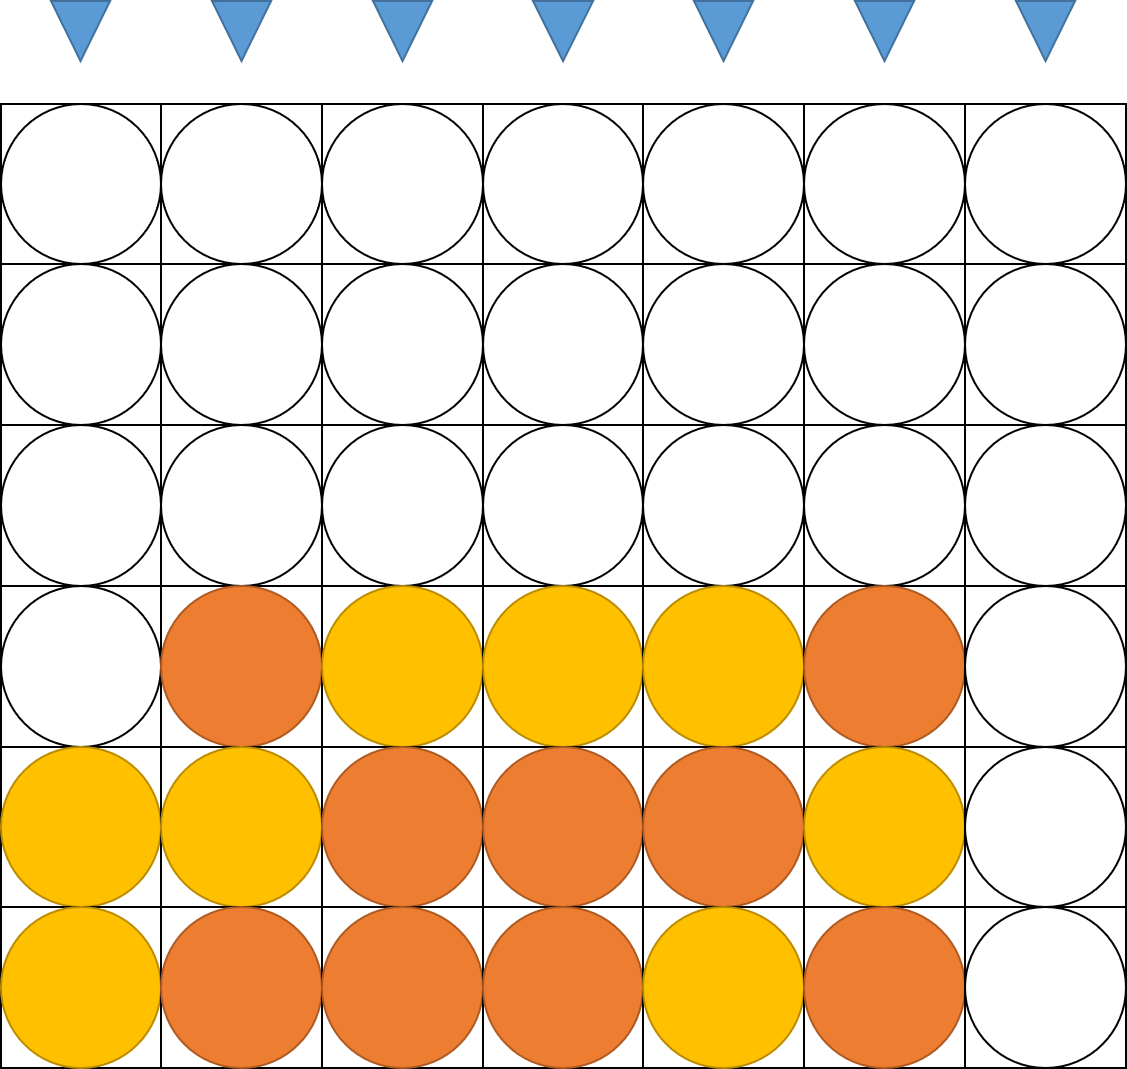
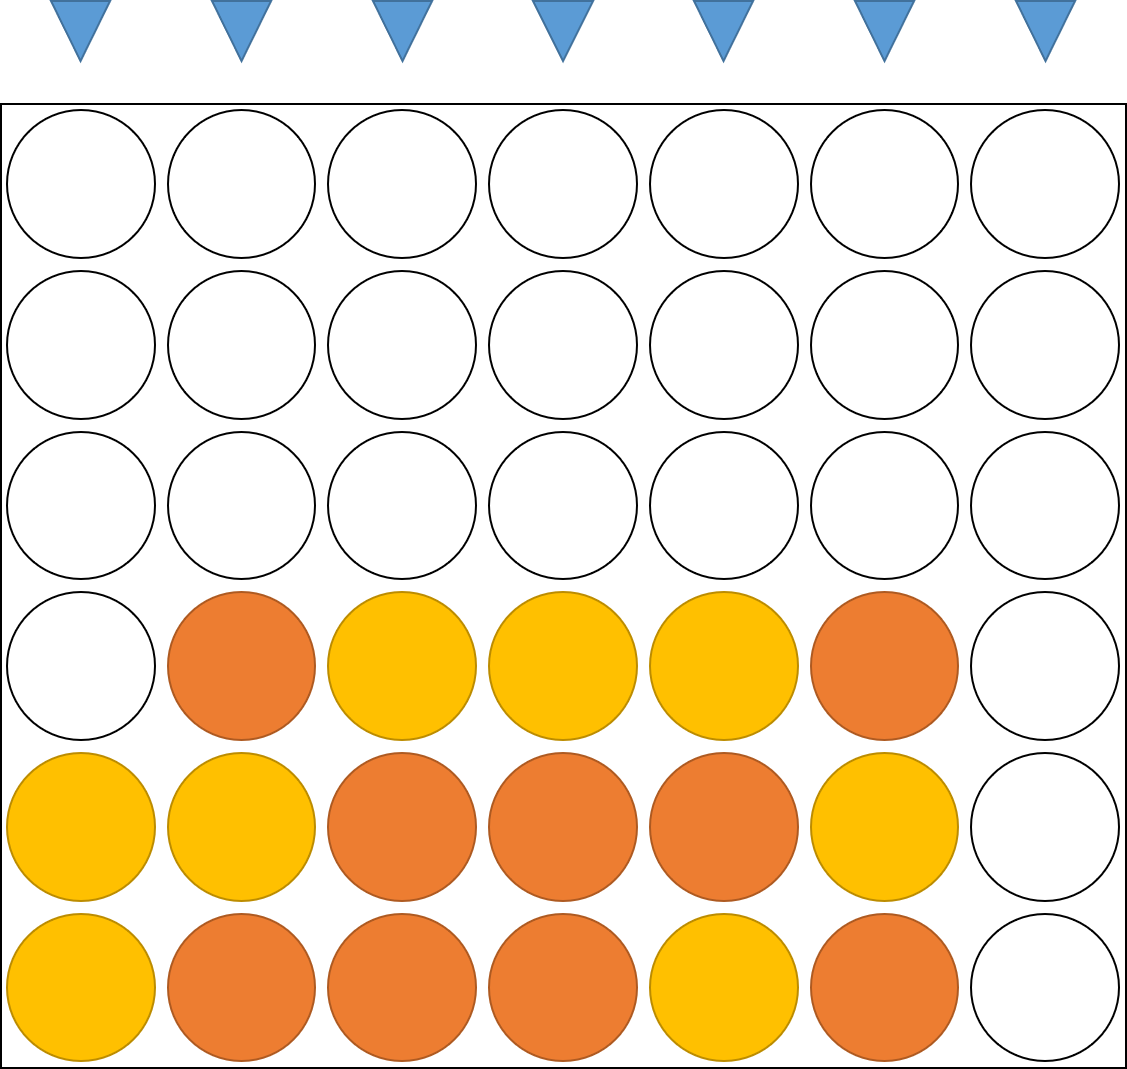
盤面の描画・コマの描画・undoの実装

diff --git a/src/ConnectFour.java b/src/ConnectFour.java
@@ -1,12 +1,84 @@
 import processing.core.PApplet;
 
 public class ConnectFour extends PApplet {
+    Board board;
+    static final int SCREEN_SIZE = 500;
+    static final float MARGIN = SCREEN_SIZE / 10;
+    static final float PIECE_SIZE = 50.0f;
+    static final float PIECE_DIST = 20;
+
+    private boolean mouseClickedFlag;
+    private boolean gameOverFlag;
+
     public void settings() {
         size(500, 500);
     }
 
+    public void setup() {
+        board = new Board();
+        gameOverFlag = false;
+    }
+
+    private void drawPiece(int x, int y, int color) {
+        // color == -1 : 空き
+        // color == 0  : プレイヤー(赤)
+        // color == 1  : コンピュータ(黄色)
+        switch (color) {
+        case -1:
+            fill(0xff, 0xff, 0xff);
+            break;
+        case 0:
+            fill(0xff, 0x00, 0x00);
+            break;
+        case 1:
+            fill(0xff, 0xff, 0x00);
+            break;
+        }
+        ellipse((x + 1) * (PIECE_DIST + PIECE_SIZE) - 3 * PIECE_SIZE / 5,
+                MARGIN / 2 + (y + 1) * (PIECE_DIST + PIECE_SIZE) + PIECE_SIZE / 5, PIECE_SIZE, PIECE_SIZE);
+
+    }
+
     public void draw() {
         background(255);
+        fill(0xdd, 0xdd, 0xdd);
+        rect(0, 60, 500, 450);
+        for (int y = 0; y < 6; y++) {
+            for (int x = 0; x < 7; x++) {
+                drawPiece(x, y, board.get(x, y));
+            }
+        }
+        for (int i = 0; i < 7; i++) {
+            beginShape(TRIANGLES);
+            // vertex((i + 1) * (PIECE_DIST + PIECE_SIZE) - 3 * PIECE_SIZE / 5, MARGIN / 2 + PIECE_SIZE / 5, PIECE_SIZE,
+            //         PIECE_SIZE);
+            fill(0x00, 0x00, 0xff);
+            vertex((i + 1) * (PIECE_DIST + PIECE_SIZE) - 9 * PIECE_SIZE / 10, MARGIN * 0.8f - 3 * PIECE_SIZE / 10);
+            vertex((i + 1) * (PIECE_DIST + PIECE_SIZE) - 3 * PIECE_SIZE / 10, MARGIN * 0.8f - 3 * PIECE_SIZE / 10);
+            vertex((i + 1) * (PIECE_DIST + PIECE_SIZE) - 3 * PIECE_SIZE / 5,
+                    (MARGIN * 0.8f + 3 * PIECE_SIZE / 10) * (float) Math.sqrt(3) / 2);
+            endShape();
+        }
+    }
+
+    public void mouseClicked() {
+        mouseClickedFlag = true;
+        board.put(positionX(mouseX), Board.color);
+    }
+
+    public void keyPressed() {
+        if (key == 's') {
+
+        } else if (key == 'r') {
+            setup();
+        } else if (key == 'u') {
+            board.undo();
+        }
+    }
+
+    private int positionX(int x) {
+        // System.out.println(7 * x / SCREEN_SIZE);
+        return 7 * x / SCREEN_SIZE;
     }
 
     public static void main(String[] args) {

diff --git a/src/Board.java b/src/Board.java
@@ -1,0 +1,92 @@
+import java.util.ArrayList;
+import java.util.Random;
+
+class Location {
+    private int x;
+    private int y;
+
+    Location(int x, int y) {
+        this.x = x;
+        this.y = y;
+    }
+
+    public int getX() {
+        return x;
+    }
+
+    public int getY() {
+        return y;
+    }
+}
+
+class Record {
+    int turn;
+    Location place;
+
+    Record(int turn, Location place) {
+        this.turn = turn;
+        this.place = place;
+    }
+}
+
+public class Board {
+    private int[][] board;
+    private ArrayList<Record> records;
+    public static int color;
+
+    Board() {
+        records = new ArrayList<Record>();
+        Random r = new Random();
+        color = r.nextInt(2);
+        init();
+    }
+
+    private void init() {
+        board = new int[6][7];
+        for (int y = 0; y < board.length; y++) {
+            for (int x = 0; x < board[0].length; x++) {
+                board[y][x] = -1;
+                // System.out.println("(" + x + ", " + y + ")");
+            }
+        }
+    }
+
+    public static int changeTurn(int turn) {
+        return turn == 0 ? 1 : (turn == 1 ? 0 : -1);
+    }
+
+    public void put(int x, int turn) {
+        for (int y = board.length - 1; y >= 0; y--) {
+            if (board[y][x] == -1) {
+                board[y][x] = turn;
+                records.add(new Record(turn, new Location(x, y)));
+                color = changeTurn(turn);
+                break;
+            }
+        }
+    }
+
+    public void put(Record r) {
+        if (r != null) {
+            board[r.place.getY()][r.place.getX()] = r.turn;
+        }
+    }
+
+    public int get(int x, int y) {
+        return board[y][x];
+    }
+
+    public int get(Location location) {
+        return board[location.getY()][location.getX()];
+    }
+
+    public void undo() {
+        if (records.size() > 0) {
+            records.remove(records.size() - 1);
+            init();
+            for (int i = 0; i < records.size(); i++) {
+                put(records.get(i));
+            }
+        }
+    }
+}
